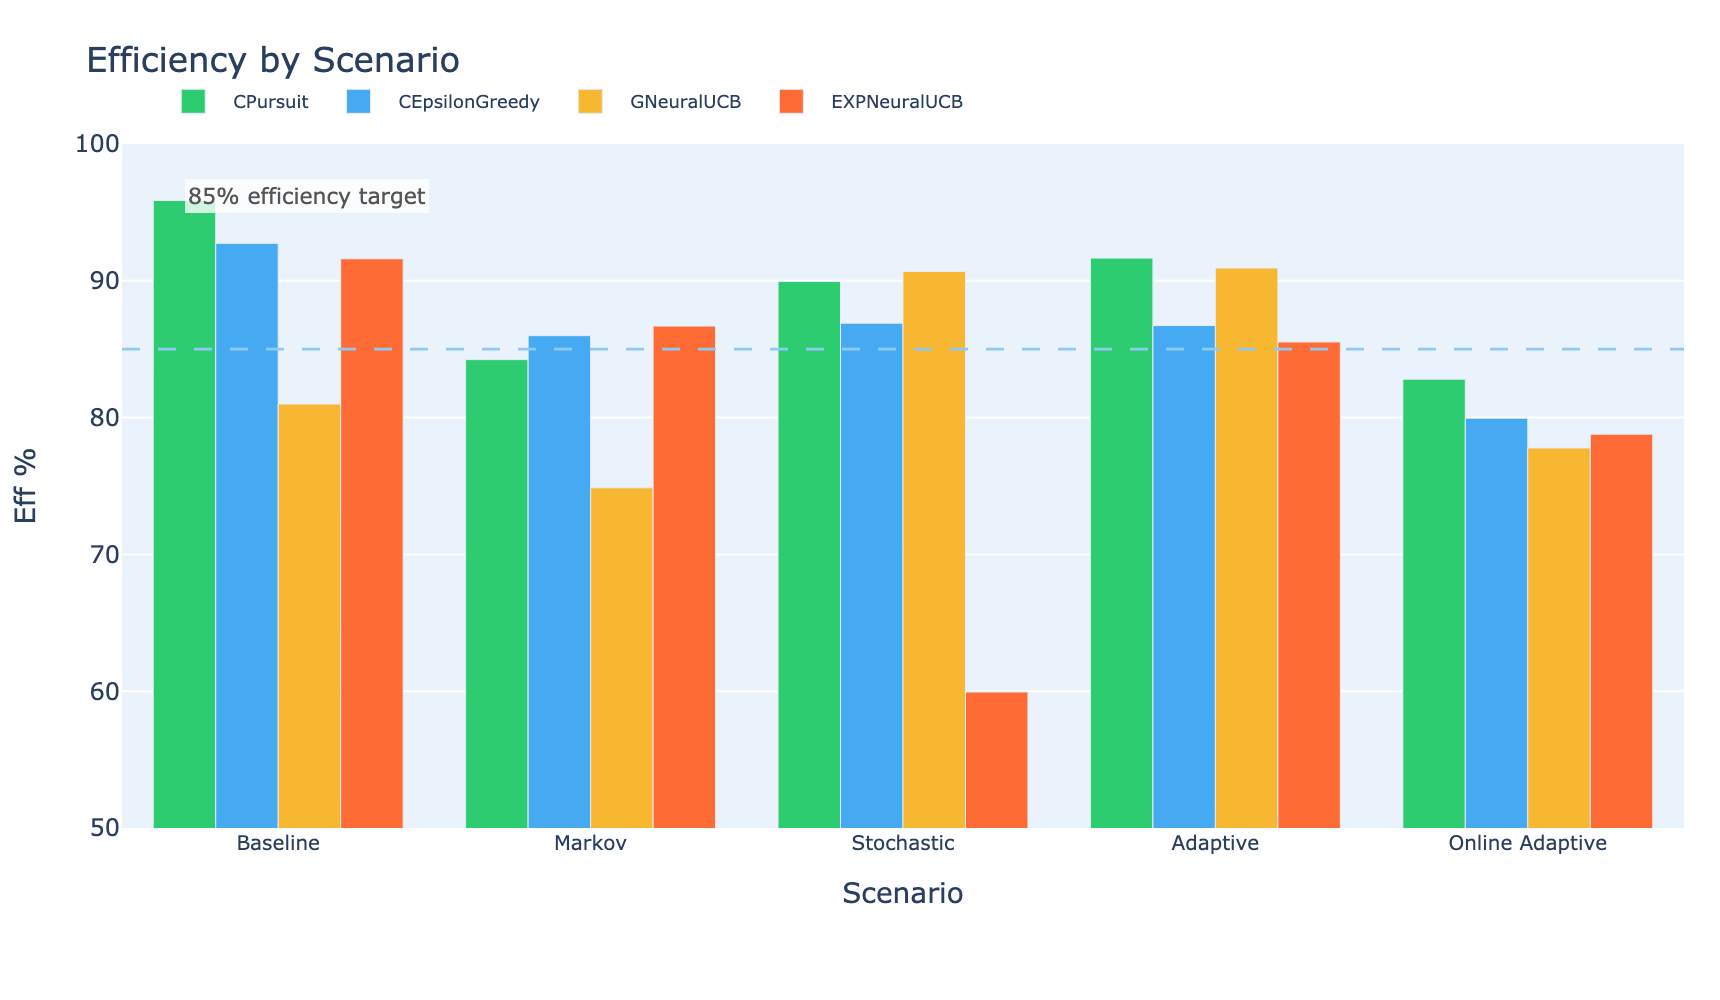
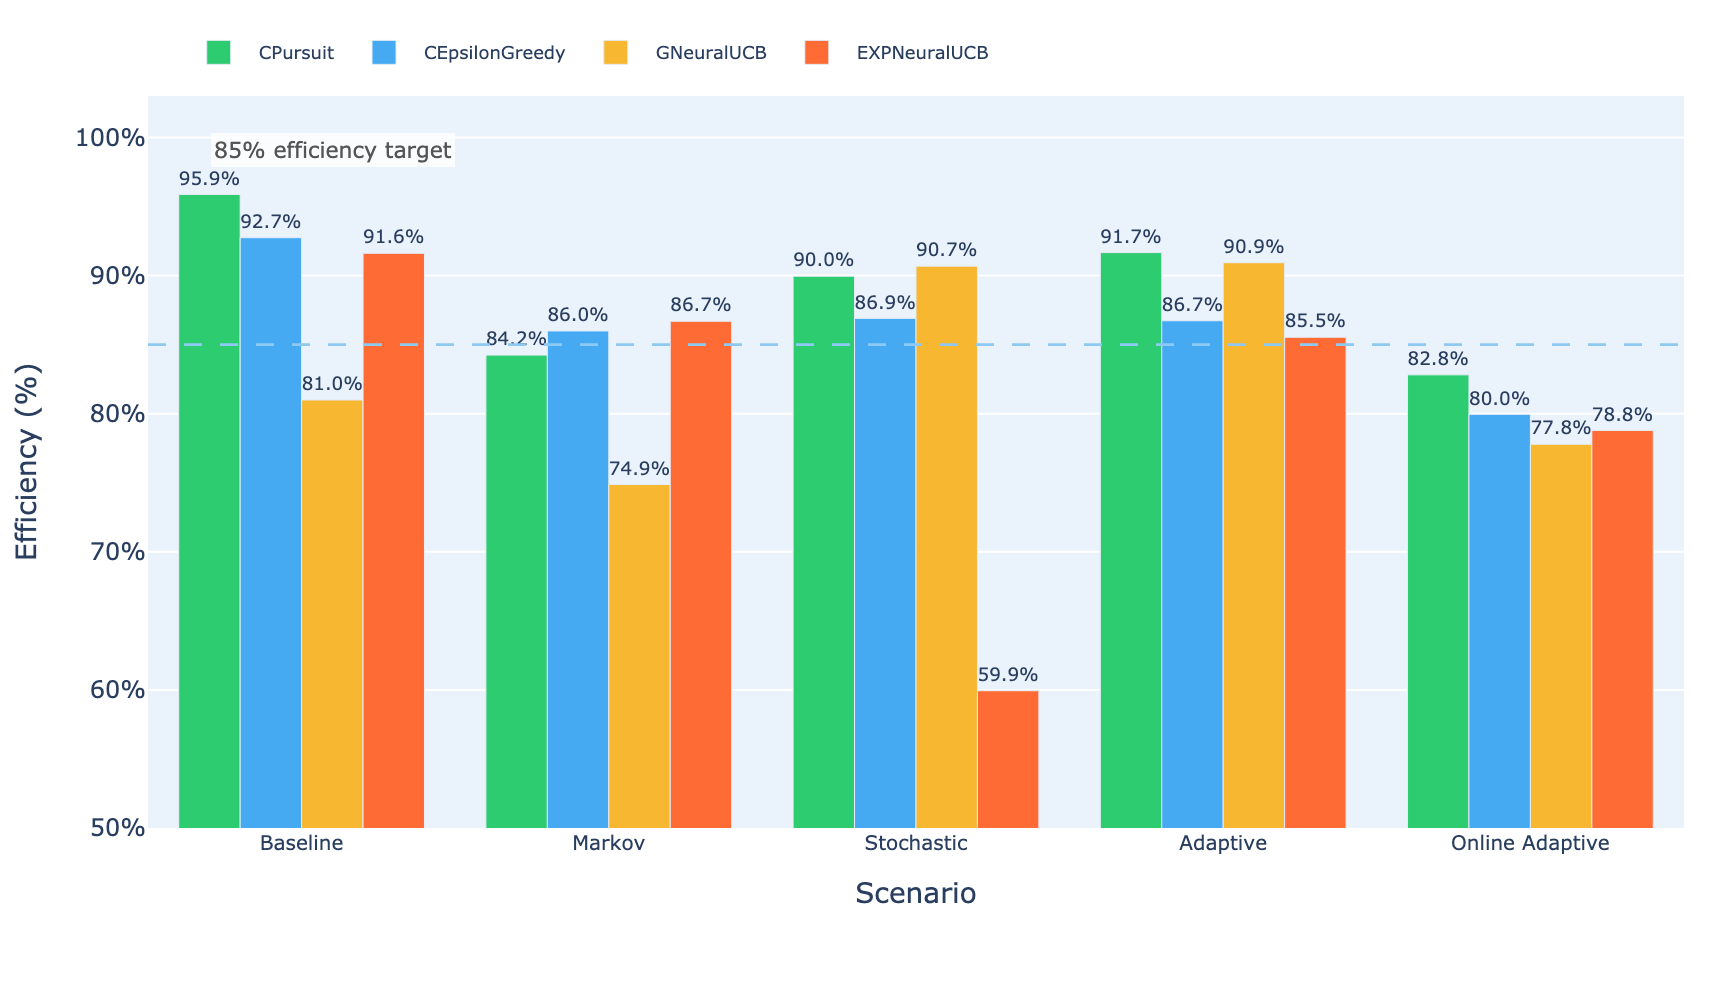
Updates from Overleaf

diff --git a/figures/icnp_graphs/build_G10_G14.py b/figures/icnp_graphs/build_G10_G14.py
@@ -199,6 +199,9 @@ for model in top4:
         y=all_models[model],
         name=model,
         marker_color=C[model],
+        text=[f"{value:.1f}%" for value in all_models[model]],
+        textposition="outside",
+        cliponaxis=False,
     ))
 fig12a.add_hline(y=85, line_dash="dash", line_color="#8EC9F4", line_width=1.4)
 fig12a.add_annotation(
@@ -212,17 +215,18 @@ fig12a.add_annotation(
     bgcolor="rgba(255,255,255,0.78)",
 )
 fig12a.update_layout(
-    title=dict(text="Efficiency by Scenario"),
     xaxis_title="Scenario",
-    yaxis_title="Eff %",
-    yaxis_range=[50, 100],
+    yaxis_title="Efficiency (%)",
+    yaxis_range=[50, 103],
     legend=dict(orientation="h", x=0.02, y=1.02, xanchor="left", yanchor="bottom", font=dict(size=9)),
-    margin=dict(l=58, r=18, t=72, b=86),
+    margin=dict(l=58, r=18, t=30, b=86),
     plot_bgcolor="#EAF2FB",
     paper_bgcolor="white",
+    uniformtext_minsize=9,
+    uniformtext_mode="hide",
 )
 fig12a.update_xaxes(tickangle=0, tickfont=dict(size=10))
-fig12a.update_yaxes(gridcolor="white")
+fig12a.update_yaxes(gridcolor="white", ticksuffix="%")
 save_paper_panel(fig12a, "ICNP-NOTEBOOK-053_g12_panel_a_efficiency_by_scenario.png")
 
 fig12b = go.Figure()
@@ -241,11 +245,11 @@ for model, x_val, y_val in zip(mnames, x_s, y_a):
     fig12b.add_annotation(
         x=x_val,
         y=y_val,
-        text=short_model_labels[model],
+        text=f"{short_model_labels[model]}<br>{x_val:.1f}%, {y_val:.1f}%",
         showarrow=False,
         xshift=xshift,
         yshift=yshift,
-        font=dict(size=10, color=C[model]),
+        font=dict(size=9, color=C[model]),
         bgcolor="rgba(255,255,255,0.82)",
         bordercolor="rgba(0,0,0,0.18)",
         borderwidth=0.6,
@@ -263,17 +267,16 @@ fig12b.add_annotation(
     bgcolor="rgba(255,255,255,0.78)",
 )
 fig12b.update_layout(
-    title=dict(text="Stochastic vs. Adaptive Gap"),
-    xaxis_title="Stochastic Gap %",
-    yaxis_title="Adaptive Gap %",
+    xaxis_title="Stochastic Gap (%)",
+    yaxis_title="Adaptive Gap (%)",
     xaxis_range=[5, 43],
     yaxis_range=[5, 42],
-    margin=dict(l=62, r=20, t=72, b=64),
+    margin=dict(l=62, r=20, t=30, b=64),
     plot_bgcolor="#EAF2FB",
     paper_bgcolor="white",
 )
-fig12b.update_xaxes(gridcolor="white")
-fig12b.update_yaxes(gridcolor="white")
+fig12b.update_xaxes(gridcolor="white", ticksuffix="%")
+fig12b.update_yaxes(gridcolor="white", ticksuffix="%")
 save_paper_panel(fig12b, "ICNP-NOTEBOOK-054_g12_panel_b_stochastic_vs_adaptive_gap.png")
 
 # G13: Capacity Paradox

diff --git a/ICNP_VENUE_PREP/APPENDIX_DIAGNOSTIC_FIGURES.tex b/ICNP_VENUE_PREP/APPENDIX_DIAGNOSTIC_FIGURES.tex
@@ -41,7 +41,7 @@ regimes before replay-capacity tuning is even applied.
 \label{fig:appendix_g12_efficiency_by_scenario}]{%
   \begin{minipage}{0.49\textwidth}
   \centering
-  \textbf{Efficiency by Scenario}\\[-0.20em]
+  \textbf{Efficiency by Scenario}\\[0.18em]
   \includegraphics[width=\linewidth,height=1.98in]{figures/icnp/ICNP-NOTEBOOK-053_g12_panel_a_efficiency_by_scenario.png}
   \end{minipage}}
 \hfill
@@ -52,7 +52,7 @@ in one regime and fail in another.
 \label{fig:appendix_g12_stochastic_vs_adaptive_gap}]{%
   \begin{minipage}{0.49\textwidth}
   \centering
-  \textbf{Stochastic vs. Adaptive Gap}\\[-0.20em]
+  \textbf{Stochastic vs. Adaptive Gap}\\[0.18em]
   \includegraphics[width=\linewidth,height=1.98in]{figures/icnp/ICNP-NOTEBOOK-054_g12_panel_b_stochastic_vs_adaptive_gap.png}
   \end{minipage}}
 

diff --git a/ICNP_VENUE_PREP/RESULTS_VALIDATED_CROSS_TESTBED.tex b/ICNP_VENUE_PREP/RESULTS_VALIDATED_CROSS_TESTBED.tex
@@ -42,7 +42,6 @@ complexity widens \texttt{Oracle} gaps and compresses separation among models.}
 \end{figure*}
 
 \begin{table*}[!ht]
-\footnotesize
 \centering
 \setlength{\tabcolsep}{4pt}
 \caption{Concise cross-testbed findings. Full per-algorithm and per-testbed detail is reported in \Cref{tab:testbed_comparison_full}.}
@@ -60,7 +59,6 @@ complexity widens \texttt{Oracle} gaps and compresses separation among models.}
 \end{table*}
 
 \begin{table}[!ht]
-\footnotesize
 \centering
 \setlength{\tabcolsep}{4pt}
 \caption{Concise model-family findings. Full family-level detail is reported in \Cref{tab:model_family_comparison_full}.}

diff --git a/ICNP_VENUE_PREP/ACTIVE_FEEDBACK_RESOLUTION_LOG.md b/ICNP_VENUE_PREP/ACTIVE_FEEDBACK_RESOLUTION_LOG.md
@@ -35,6 +35,13 @@ This log records feedback-resolution batches applied to the active ICNP venue dr
 - **Change:** Regenerated only the active Figure 10(c)--(d) appendix panels from the G12 source script. Panel (c) now spells out `Baseline`, `Markov`, `Stochastic`, `Adaptive`, and `Online Adaptive`; panel (d) uses larger markers and direct model labels above the points.
 - **Validation:** Full LaTeX compile passed; PDF is 16 pages. Appendix page 13 was rendered and inspected to confirm the scenario labels and point labels are visible.
 
+### Follow-up: Figure 10(c)--(d) percentage labels and duplicate-title cleanup
+
+- **Owning files changed:** `ICNP_VENUE_PREP/APPENDIX_DIAGNOSTIC_FIGURES.tex`, `figures/icnp_graphs/build_G10_G14.py`, `figures/icnp/ICNP-NOTEBOOK-053_g12_panel_a_efficiency_by_scenario.png`, `figures/icnp/ICNP-NOTEBOOK-054_g12_panel_b_stochastic_vs_adaptive_gap.png`
+- **Reason for follow-up:** The active appendix Figure 10(c)--(d) panels still carried an internal plot title directly under the LaTeX panel title, and the visible values were not consistently marked as percentages.
+- **Change:** Removed the internal Plotly titles from the two active panels, added positive spacing between the LaTeX panel title and the image, added percentage labels to the Figure 10(c) bars, and added percentage coordinates to the Figure 10(d) direct point labels.
+- **Validation:** Full LaTeX compile passed; PDF is 16 pages. Appendix page 13 was rendered and inspected to confirm the duplicate titles are gone and the percentage values remain readable.
+
 ## Batch: May 23 Figure 11 restyle
 
 - **Owning files changed:** `figures/icnp-exported-assets/build_G8_G9.py`, `figures/icnp/ICNP-CODE-053_fig6_context_capacity.png`, `figures/icnp/icnp_validation_image_manifest.csv`, `ICNP_VENUE_PREP/BUILD_VALIDATION_LOG.md`

diff --git a/ICNP_VENUE_PREP/BUILD_VALIDATION_LOG.md b/ICNP_VENUE_PREP/BUILD_VALIDATION_LOG.md
@@ -2,6 +2,31 @@
 
 This log records non-destructive Overleaf/PDF validation for `ICNP_2026_venue_draft.tex`.
 
+## Validation pass: May 23 page-9 table-font warning fix
+
+- **Date:** 2026-05-23
+- **Active draft:** `ICNP_2026_venue_draft.tex`
+- **Purpose:** Apply the smallest safe source fix for the submission-checker warning: "Body font too small: minimum 10pt, saw values as small as 8.3pt (page 9)."
+
+What changed:
+
+- [x] Removed table-level `\footnotesize` from the two concise page-9 summary tables in `ICNP_VENUE_PREP/RESULTS_VALIDATED_CROSS_TESTBED.tex`:
+  - `tab:testbed_comparison_summary`
+  - `tab:model_family_comparison_summary`
+- [x] Left figure captions, table captions, manuscript claims, and page-flow controls unchanged.
+
+Validation:
+
+- [x] Full draft compiled locally with `latexmk -g -pdf -interaction=nonstopmode -halt-on-error ICNP_2026_venue_draft.tex`.
+- [x] No unresolved references remained in the final LaTeX log.
+- [x] Generated PDF remains 16 pages total.
+- [x] Page 9 rendered and visually inspected after the fix; Tables XI--XII remain readable and the main-body flow remains intact.
+
+Observed outcome:
+
+- The only real source-level small body text found on page 9 was the explicit `\footnotesize` used by Tables XI--XII. This fix rebuilds those table bodies at the surrounding IEEE body size without changing content.
+- If the venue checker still reports 8.3pt text after this change, the remaining trigger is likely IEEE caption/subcaption or image-internal text; that should be treated as a separate, higher-risk formatting decision rather than folded into this surgical table-font fix.
+
 ## Validation pass: May 23 Figure 11 restyle and page-9 font-warning triage
 
 - **Date:** 2026-05-23
